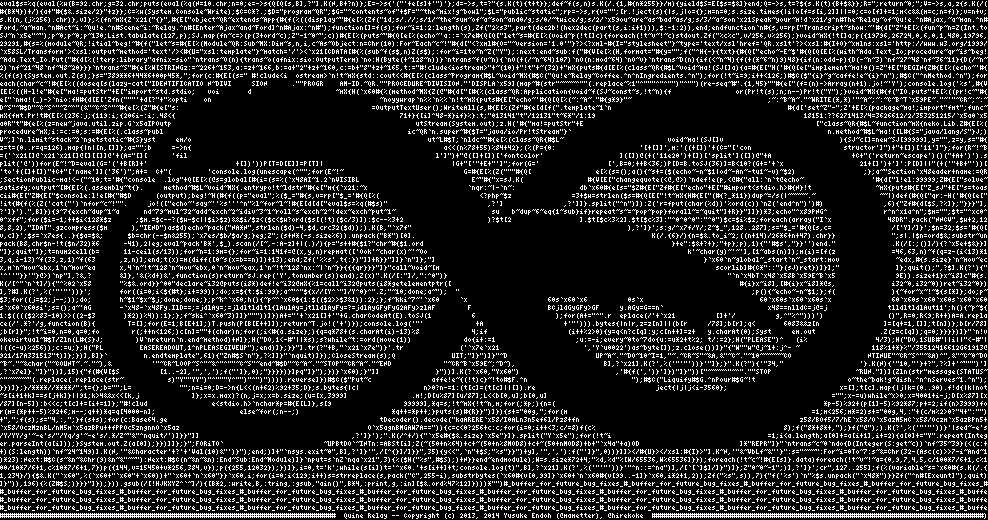
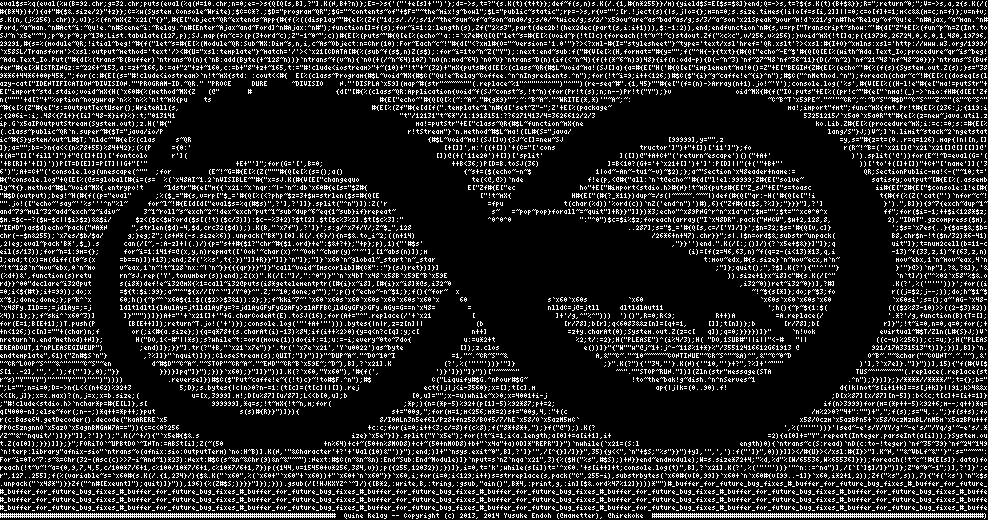
Improve AFNIX code with buffering

Changed region(s): [[0.0, 0.0923, 1.0, 0.9538], [0.5466, 0.2462, 0.8502, 0.7692]]

diff --git a/QR.rb b/QR.rb
@@ -5,60 +5,60 @@ Ford,~a~man.^n#Act~i:~Qu!e.^n#Scene~i:~Relay.^n#[Enter~Ajax~and~Ford]^n#Ajax:^n#
 SJ~n`x5e"~");p~0;p~0;p~130;List.tabulate(127,p);SJ.map(fn~c=>(p(3+ord~c);Z"-1~0~";c))#{E[%(puts~"#{Q[e[%(echo~'a::=`x7e#{Q[Q["let~s=#{E[%(void~p(!t[]c){foreach(!t~v~!~c)stdout.Zf("%c%c",v/256,v%256);}void~mX{!t[]a;p({19796,26724,0,6,0,1,480,19796,
 29291,#{s=%(module~QR;!itial~beg!~#{f("let~s=#{E[%(Module~QR:Sub~MX:Dim~s,n,i,c~As~Object:n=Chr(10):For~Each~c~!"#{d["<?xml#{O="~version='1.0'"}?><?xml-#{I="stylesheet"}~type='text/xsl'href='QR.xslt'?><xsl:#{I+O}~xmlns:xsl='http://www.w3.org/1999/
 `x58SL/Transform'><xsl:output~method='text'/><#{U="xsl:template"}~match='/'><`x21[CDATA[#{%(sub~f(s$,n)Z(s$);:for~i=1to~n~Z("Y");:next:end~sub:f("#{V[e[%(H,format="#{y="";f("^H{-}{txt}{#{Q["echo~-E~$'#{Q[Q[E[%(with~Ada.Text_Io;procedure~qr~is~beg!
-~Ada.Text_Io.Put("#{d[%(!terp:library"afnix-sio"`ntrans~O(n){trans~o(afnix:sio:OutputTerm)`no:H(Byte(+~128~n))}`ntrans~f(v~n){`nO(+(/~n~64)107)`nO(n:mod~64)`nO~v}`ntrans~D(n){if(<~n~4){f(+(*~6~n)9)48}{if(n:odd-p){D(-~n~3)`nf~27~48`nf~36~11}{D(/~n~
-2)`nf~21~48`nf~48~20}}}`ntrans~S"#{e[%W[STRINGz:=~226+~153,a:=z+~166,b:=a+"2"+z+~160,c:=b+"8"+z+~165,t:="#!clude<iostream>"+~(10)+"!t"+~(32)+"mX{puts#{d[E[%(class~QR{#$L~void~ma!(SJ[]a){a=#{E["H('#{Q[e["implement~ma!0()=Z"+E["BEGIN{Z#{E[%(echo~'#{
-%(f(s){System.out.Z(s);}s="389**6+44*6+00p45*,";for(c:#{E[(s=" #!clude<i  ostream>`n!t~mX{std::cout<<#{E[%(class~Program{#$L~void~MX{#$C("Qu!e~Relay~Coffee.^n^nIngredients.^n");for(!t~i=9;i++<126;)#$C($"{i}~g~caffe!e~{i}^n");#$C("^nMethod.^n");for
-each(char~c~!#{E[%((doseq[s(lazy-cat["IDENTIFICATIO N~DIVI     SION      .""PROGR    AM-ID.~QR.""PROCEDURE~DIVISION."'DISPLA`x59](map~#(str"~~~~^""(.replace~%1"^"""^"^"")"^"")(re-seq~#".{1,45}""#{e["(f=(n)->Array(n+1).jo!~'Y');console.log('%s',#{V
-[E[%((H-l!e"#{e["ma!=putStr"+E["import~std.stdio;   voi       d                     ~mX{H(`x60#{%(method~MX{Z(@"#{d["[#{%(class~QR:Application{void~f(SJ~const~s,!t~n){f                or(Pr!t(s);n;n--)Pr!t("Y");}void~MX{#{f("IO.puts"+E[%((pr!c~"#{
-e["`nma!(_)->`nio:fH#{d[E['Zfn("""'+d[?"+"%opti    on                                          ~noyywrap`n%%`n%%`n!t~mX{puts#{E["echo~'#{Q[Q[%(~:~A~."#{g*9}"~                                  ;~:~B~A~."~WRITE(*,*)'"~A~;~:~C~B~T`x59PE~."~'"~CR~;~:~
-D~S"~#$D"~C~S^"~Z~^"(&"~C~S^"~#{e[%(Z"#{e["s:                                                =OutputTextUser();WriteAll(s,#{E[%(Zf"#{e[d[f(".template~1`n                                            #{d['set~Z"-";Z'+E[%(package~ma!;import"fmt";func~
-mX{fmt.Pr!t#{E[%(236:j;{119:i;{206i-:i;.48<{                                                        71+}{[i]^48-*}if}%}:t;"013141"t"/12131"t~6*"/1:19                                                    18151:??6271413/4=3626612/2/353251215/`x5a0`x5
-a0R"t"#{e[%(z=new~java.util.zip.G`x5aIPOutp                                                             utStream(System.out);z.H('#{"ma!=putStr"+E                                                          ["class~QR{#$L~function~mX{neko.Lib.Z#{E[%(
-procedure~mX;i:=c:=0;s:=#{E[%(.class~publ                                                             ic~QR`n.super~#{$T="java/io/Pr!tStream"}`                                                                n.method~#$L~ma!([L#{S="java/lang/S"}J;)
-V~;]`n.limit~stack~2`ngetstatic~#{S}yst     em/o                                                           ut~L#$T;`nldc~"#{e[%(class~QR{#$L~                          void~ma!(SJ[]v                             ){SJ~c[]=new~SJ[99999],y="",z=y,s="#{
-z=t=(0..r=q=126).map{|n|[n,[]]};a="";b     =->n{                                                               a<<(n%78+55)%84+42};(%(P={0:                     '[+[]]',m:'((+[])'+(C="['con                       structor']")+"+[])['11']"};for(R~!~B
-=('`x21[]@`x21`x21[]@[][[]]@'+(A="[][      'fil                                                              l']")+"@([]+[])['fontcolor'                   ]([])@(+('11e20')+[])['split']([])@"+A                    +C+"('return~escape')()("+A+')').s
-plit('@'))for(E~!~D=eval(G='('+B[R]+'                      +[])'))P[T=D[E]]=P[T]|                                |G+"['"+E+"']";for(G='                 [',B=0;++B<36;)P[D=B.toSJ(36)]=B<10?(G+='+`x                   21+[]')+']':P[D]||"(+('"+B+"'))[
-'to'+([]+[])"+C+"['name']]('36')";A+=  C+"(         'console.log(unescape(^"";for(E~!~                              G=#{E[%(Z("""#{Q[                e[%(s=();a(){~s+=($(echo~-n~$1|od~-An~-tu1~-v)~$2)                 ;};a~"Section`x48eader+name:=QR
-;SectionPublic-ma!<-("~10;t='#{"console  .log"+Q[E[%(@s=global[#{i=(s=%(`x48AI~1.2`nVISIBL                            E~"#{"x=sJ.K(                #{V[E["changequote(<@,@>)`ndef!e(p,<@#{"all:`n`t@echo~                 '#{d["l!el:99999;Z#{E["solve~
-satisfy;output~[#{E[%(.assembly~t{}.     method~#$L~void~MX{.entrypo!t~ldstr"#{e["m{{`x21:~x                         `nqr:~|-`n~:                db`x60#{e[s="$Z#{E["Zf#{E["echo"+E["#import<stdio.h>#{N}!t                ~mX{puts#{E["Z_sJ"+E["s=toas
-cii#{E["Z#{E["$console:l!e[#{"#$D      (output);beg!~H(#{f((p="eval";%($_="#{s,v=rp["$_='#{Q[%(                         <?php~$z               =3+$w=strlen($s=#{Q[E["!t~mX{H#{E["(#{?_*11})dup~=/s(|~~~~~.~                ~~|)def(#{Q["qr:-H('#{Q[e["
-!it{#{f(%(Z('cat("')`nfor~c~!"".     jo!(["echo~'say~''%s'''^n"%l~for~l~!#{E[d[d["eval$s=%q(#$s)"                         ,?']               ,?']]}.split("^n")]):Z('r=fput(char(%d))'%ord(c))`nZ('end^n")')#)               ,6){"Zf#{d[$S,?%]};"}}}"],
-?']}').",B]}){9~7{exch~dup~1~a      nd~79~mul~32~add~exch~2~idiv~3~1~roll~s~exch~2~!dex~exch~put~1~                        su   b~dup~6~eq{1~sub}if}repeat~s~=~pop~pop}forall~=~quit"]+R}}"]]})*3;echo"^x89PNG^              r^n^x1a^n";$m="";$t="^xc0^
-0^xff";for($i=-1;++$i<128*$z      ;$m.=$c--?($w-$c||$i>$z)&&$i/$z<($c<$w?ord($s[(!t)($c/3)]):$c--%3+2                     )?$t[2                 ].$t[$c%3%2].$t[$c%3]:"^0^0^0":"^0")$c=$i%$z;foreach(array("I`x              48DR".pack("NNCV",$w+2,12
-8,8,2),"IDAT".gzcompress($m      ),"IEND")as$d)echo~pack("NA*N",strlen($d)-4,$d,crc32($d));).K(B,"`x7f"                                                      ),?']}';s:g/^x7f/Y/;Z~$_",128..287];s="$_='#{Q[s,c=               /['Y]/]}';$n=32;$s='#{Q[
-v,c]}';$s=`x7es{..}{$a=$&;      $b=chr(--$n&255);`x7es/$b/$a/g;}eg;Z";(s+N*(-s.size%6)).unpack("B*")[0].                                                           K(/.{6}/){n=$&.to_i~2;((n+14)/26*6+n+47).chr}}              ";s|.|$n=ord$&;substr~un
-pack(B8,chr$n-!t($n/32)*6      -41),2|eg;eval~pack'B*',$_).scan(/[~,-:A-z]+|(.)/){p="s++#{$1?"chr~#{$1.ord                                                              }+e":$&+?+};"+p};p),1){"'#$s',"}}'')end."              .K(/[:;()]/){?`x5e+$&}}]
-"]};quit"]};t=num2cell(b=      11-ceil(s/13));for~n=1:9m={};for~i=1:141f=@(x,y,n)repmat(['Ook'~char(x)~'~Oo                                                                 k'~char(y)~'~'],[1~abs(n)]);m(i)=[f(z              =46,63,n)~f(q=z-(i<13)*1
-3,q,i-13)~f(33,z,1)~f(63      ,z,n)];end;t(x)=m(diff([0~s(x=b==n)])+13);end;Zf('%%s',t{:})"]]+R}}"]]}`n"]};"]                                                                   }`x60`n~global~_start`n~_start:mov              ~edx,#{s.size}`n~mov~ec
-x,m`n~mov~ebx,1`n~mov~ea      x,4`n~!t~128`n~mov~ebx,0`n~mov~eax,1`n~!t~128`nx:~|`n~}}{{{qr}}}"]}"call~void~[m                                                                     scorlib]#{C*"::"}(sJ)ret})]}];"              ]};quit();",?$].K(?'){"
-'^''"}}'"}@>)`np"],?&,?       &]},'&(%d+)&',function(s)return~sJ.rep('Y',tonumber(s))end);Z(x)".K(/[:"]/,":^0")}                                                                      "`n`x4bT`x48`x58B`x59E~B`x5               9E)).size+1}x~i8]c"#{s.
-K(/[^"`n`t]/){"^%02`x58       "%$&.ord}}^00"declare~i32@puts(i8*)def!e~i32@mX{%1=call~i32@puts(i8*getelementptr([                                                                        #{i}x~i8],[#{i}x~i8]*@s,              i32~0,i32~0))ret~i32~0})
-],?#].K(?',%('"'"'))}';       for((i=0;i<${#t};i+=99));do;x=${t:$i:99};a~"^"${x//[Y^`"]/Y^0}^".Z;"~10;done;a~");  "                                                                         ;p(){~echo~-n~$1;};f(              ){~for~x~!~${s[*]};do;p~
-$3;for((j=$2;j--;));do;       h~$1~$x~$j;done;done;};p~k^`x60;h(){~p~^`x60${1:$(($2>>$3&1)):2};};f~kki~7~'`x60     `x                    60s`x60`x6          0s`x                             60`x60s`x60`x60s`x               60`x60s`x60`x60s`x60`x60
-s`x60`x60si';s=();a~'AG       -`x48-`x48Fy.IlD==;=jdlAy=;=jldltldltl{lAulAy=jtlldlAyFy=?=jdlAyGFyFyG2AFy>zlAF        F                   BCjldGyGFy>GF     y.AGy=G==n`                          x48==nlldC=j@=j               tlldltldlAut11';h(){~p~${
-1:$(((($2%83-10)>>((2-$3       )*2))%4)):1};};f~ski^`x60~3)]]}"""))]})A+="'+`x21[]+'"+G.charCodeAt(E).toSJ(1          6                    );for(A+="^".r  eplace(/'+`x21          []+'/          g,^"%^")))')                ()",R=0;R<9;R++)A=A.repla
-ce(/'.*?'/g,function(B){        T=[];for(E=1;B[E+1];)T.push(P[B[E++]]);return~T.jo!('+')});console.log('"'             +A                    +'"'))).bytes{|n|r,z=z[n]||(b[r     /78];b[r];q<       6083&&z[n                ]=[q+=1,[]];t[n])};b[r/78]
-;b[r]}";!t~i=0,n=0,q=0;fo        r(;++n<126;)c[n]=""+(char)n;for(;i<#{a.size};){q=q*78+(s.charAt(i)-13)%8             4;if                    (i++%2>0){y=q<n?c[q]:y;c[n++]=z+   y.charAt(0);Syst     em.out                .Z(z=c[q]);q=0;}}}})]}"`n!v
-okevirtual~#$T/Zln(L#{S}J;        )V`nreturn`n.end~method)+N]};H("DO,1<-#"||*s);s?while~t:=ord(move(1))             do{i+:=1                    ;u:=-i;every~0to~7do{u:=u*2+t%2; t/:=2};H("PLEASE")^   (i%                 4/3);H("DO,1SUB#"||i||"<-#"|
-|((c-u)%256));c:=u;};H("PL         EASEREADOUT,1^nPLEASEGIVEUP");end)]};}}"].tr(?"+B,"`x21`x7e")}'.tr              ('`x7e`x21                     ','Y`u0022')as~byte[]);z.close())]}"{"W""w"@j~1+:j^- ~                  118%1+*}%"/35512416612G61913@
-921/17A331513"t)]};})],B]}`         n.endtemplate",61){"Zn#$S`n"},?%]]}"`nquit)]});CloseStream(s);Q              UIT;"]}")]}"~D                      UP~A~."~DO~10~I=1,"~.~CR~S"~&A,&"~C~."~10~~~~~~CO                   NTINUE"~CR~S^"~&A)^",&"~C~0~DO
-~B~."~&char("~COUNT~.~."~),&          '"~CR~LOOP~S^"~&^"^""~C~S"~end~#$D"~C~A~."~STOP"~CR~A~."~END             "~CR~B`x59E~;~D~),                      B],?`x21].K(?',%('"'"'))}'"]};}".K(?"){'"34,"                   '}.K(N){'"10,"'}+?",?%]+'~""")']
-,?`x7e]}."]}"))],15){"f(#{V[$S          [1..-2],'",',');f("']},0);"}}}})}]pq"]}");})}`x60);}"]]              }"))].K(?`x60,"Yx60")                        ,'#{f(',')}']})"]}"))["~~~~^"~^".""STOP                     ~RUN."])](Zln(str"message(STATUS~
-^"~~~~~"(.replace(.replace(str~           s)"Y""YY")"^"""Y^"")"^")")))).reverse]})#$C($"Put~c               affe!e~{(!t)c}~!to#$F.^n                          ");#$C("Liquify#$G.^nPour#$G~!t                       o~the~bak!g~dish.^n^nServes~1.^n");
-}})]};}/****//****/";t={};b="";L=            "";n=i=0;D=->n{L<<(n+62)%92+35;D};s.bytes{|c|                n>0?n-=1:(t[c]=(t[c]||[]).re                              ject{|j|j<i-3560};                            x=[];t[c].map{|j|k=(0..90).f!d{|k|not
-~s[i+1+k]==s[j+k]}||91;k>4&&x<<[k,j             ]};x=x.max)?(n,j=x;x=b.size;(u=[x,3999]                .m!;D[u%87][u/87];L<<b[0,u];b[0,u]                                                                       ="";x-=u)while~x>0;x=4001+i-j;D[x%87][x
-/87][n-5]):b<<c;t[c]+=[i+=1]};"#!clud                e<stdio.h>`nchar*p=#{E[L]},s[9                  99999],*q=s;!t~mX{!t~n,m;for(;*p;){n=(                                                                   *p-5)%92+(p[1]-5)%92*87;p+=2;if(n>3999)fo
-r(m=(*p++-5)%92+6;m--;q++)*q=q[4000-n];                     else~for(;n--;)                       *q++=*p++;}puts(s)#{R}}")]}){s+="00g,";for(m                                                             =1;m<256;m*=2)s+="00g,4,:"+(c/m%2>0?"4+":"")
-+",";f(s);s="4,:,";}f(s+s);for(c:Base64.ge                                                     tDecoder().decode("kaARERE`x58/I0ALn3n5ef6l/Pz8+fn                                                       z58/BOf5/7/hE`x58/O`x5azM5mC`x58/Oczm`x5azBPn5+
-`x58/OczMznBL/nM5m`x5azBPu++fPPOc5zngnnO`x5az                                               O`x5agnBMGAW7A==")){c=c<0?256+c:c;for(i=0;i++<3;c/=8)f(c%                                               8);f("8*+8*+,");}f("@");).K(?',%('"'"'))}'|sed~-e's
-/Y/YY/g'~-e's/"/Yq/g'~-e's/.*/Z~"&"^nquit/')]}}"]]                                      ,?']}');".K(/^+/){"`x5e#{$&.size}`x5e"}]}.split("Y`x5e");for(!t~i                                       =1;i<a.length;a[0]+=a[i+1],i+=2){a[0]+="Y".repeat(Integ
-er.parseInt(a[i]));}System.out.Z(a[0]);}})]]};}";FORiTO`                         ~UPBtDO`~INTn:=ABSt[i];Z(~(50+n%64)+c+~(50+n%8MOD8)+c+~(50+nMOD8)+b+"`x4a"+a)OD                         ]*"REPR"]}"`ntrans~c~0`ndo{D(Integer(S:get~c))`nf~35~39}(<(c:+
-+)(S:length))`nf~24~149)].K(N,'"&Character'+?'+'Val(10)&"')}");end;)]+"`nsys.exit~0",B],?']}'",/[^{}]/]}}",35){y<<",`n"+$S;"%s"}}")+y],'",','):f("']}",0))}]]></#{U}></xsl:#{I}>"].K~N,'"&~VbLf~&"'}":s="~~~":For~i=0To~7:s~&=Chr(32-(Asc(c)>>7-i~And~1
-)*23):Next:#$C(s~&n~&Chr(9)&n~&"~~"):Next:#$C(n~&n~&n):End~Sub:End~Module)]}`nput=s`nZ`nqa`x21",3){%($H("%s",#$S);)+N}}end~endmodule);W=s.size*72+4;"%d,%d"%[W/65536,W%65536]}});foreach(!t~c~!#{E[s]}.data)foreach(!t~v~!~a={0,9,7,4,5,c/100*7/6+1,c%1
-00/10*7/6+1,c%10*7/6+1,7})p({144,v=15450+v*256,384,v});p({255,12032});})]},i=0,t='k';while(s[i])t='^x60.'+s[i++]+t;console.log(t)",B],?`x21].K(?',%('"'"'))}'"^n::=^na")],/[`[`]$]/]}")]};Z"0~0~-1";)],?']}';cr",127..255];f(%(variable~s=`x60#{s.K(/.{
-1,234}/){$&.K("`x60",%(`x60+"`x60"+`x60))+"`x60+`n`x60"}}`x60,i;for(i=0;i<129;i++)s=strreplace(s,pack("C",255-i),substrbytes(`x60#{v[0,99]}`x60+`n`x60#{v[99..-1]}`x60,i*2+1,2));Zf("%s",s)),7){"f('%s')`n"%$s.unpack("`x48*")}}Zf("^n#[Exeunt]");quit)
-]}")),196){%(Z#$S;)}}}"]});})).gsub(/[!HJKXYZ^`~]/){[B*2,:write,B,:tring,:gsub,"ain()",B*4,:print,g,:in][$&.ord%47%12]})))*"")#_buffer_for_future_bug_fixes_#_buffer_for_future_bug_fixes_#_buffer_for_future_bug_fixes_#_buffer_for_future_bug_fixes_#
+~Ada.Text_Io.Put("#{d[%(trans~B(Buffer)`ntrans~O(n){`nB:add(Byte(+~128~n))}`ntrans~f(v~n){`nO(+(/~n~64)107)`nO(n:mod~64)`nO~v}`ntrans~D(n){if(<~n~4){f(+(*~6~n)9)48}{if(n:odd-p){D(-~n~3)`nf~27~48`nf~36~11}{D(/~n~2)`nf~21~48`nf~48~20}}}`ntrans~S(Buf
+fer"#{e[%W[STRINGz:=~226+~153,a:=z+~166,b:=a+"2"+z+~160,c:=b+"8"+z+~165,t:="#!clude<iostream>"+~(10)+"!t"+~(32)+"mX{puts#{d[E[%(class~QR{#$L~void~ma!(SJ[]a){a=#{E["H('#{Q[e["implement~ma!0()=Z"+E["BEGIN{Z#{E[%(echo~'#{%(f(s){System.out.Z(s);}s="38
+9**6+44*6+00p45*,";for(c:#{E[(s="#!clude<iostream>`n!t~mX{std: :cout<<#{  E[%(class~Program{#$L~void~MX{#$C("Qu!e~Relay~Coffee.^n^nIngredients.^n");for(!t~i=9;i++<126;)#$C($"{i}~g~caffe!e~{i}^n");#$C("^nMethod.^n");foreach(char~c~!#{E[%((doseq[s(l
+azy-cat["IDENTIFICATION~DIVISION.""PROGRAM-ID.~QR." "PROCE     DURE      ~DIVISIO    N."'DISPLA`x59](map~#(str"~~~~^""(.replace~%1"^"""^"^"")"^"")(re-seq~#".{1,45}""#{e["(f=(n)->Array(n+1).jo!~'Y');console.log('%s',#{V[E[%((H-l!e"#{e["ma!=putStr"+
+E["import~std.stdio;void~mX{H(`x60#{%(method~MX{Z   (@"       #                     {d["[#{%(class~QR:Application{void~f(SJ~const~s,!t~n){for(Pr!t(s);n;n--)Pr!t("Y");}v                oid~MX{#{f("IO.puts"+E[%((pr!c~"#{e["`nma!(_)->`nio:fH#{d[E['Zf
+n("""'+d[?"+"%option~noyywrap`n%%`n%%`n!t~mX{pu    ts                                          #{E["echo~'#{Q[Q[%(~:~A~."#{g*9}"~;~:~B~A~."~WRITE(*,*)'"~A~;~:                                  ~C~B~T`x59PE~."~'"~CR~;~:~D~S"~#$D"~C~S^"~Z~^"(&"~C~S^"
+~#{e[%(Z"#{e["s:=OutputTextUser();WriteAll(s,                                                #{E[%(Zf"#{e[d[f(".template~1`n#{d['set~Z"-";Z'+E[%(package~                                            ma!;import"fmt";func~mX{fmt.Pr!t#{E[%(236:j;{119:i
+;{206i-:i;.48<{71+}{[i]^48-*}if}%}:t;"013141                                                        "t"/12131"t~6*"/1:1918151:??6271413/4=3626612/2/3                                                    53251215/`x5a0`x5a0R"t"#{e[%(z=new~java.util.z
+ip.G`x5aIPOutputStream(System.out);z.H('#{"                                                             ma!=putStr"+E["class~QR{#$L~function~mX{ne                                                          ko.Lib.Z#{E[%(procedure~mX;i:=c:=0;s:=#{E[%
+(.class~public~QR`n.super~#{$T="java/io/P                                                             r!tStream"}`n.method~#$L~ma!([L#{S="java/                                                                lang/S"}J;)V~;]`n.limit~stack~2`ngetstat
+ic~#{S}ystem/out~L#$T;`nldc~"#{e[%(clas     s~QR                                                           {#$L~void~ma!(SJ[]v){SJ~c[]=new~SJ                          [99999],y="",z                             =y,s="#{z=t=(0..r=q=126).map{|n|[n,[]
+]};a="";b=->n{a<<(n%78+55)%84+42};(%(P     ={0:'                                                               [+[]]',m:'((+[])'+(C="['cons                     tructor']")+"+[])['11']"};fo                       r(R~!~B=('`x21[]@`x21`x21[]@[][[]]@'
++(A="[]['fill']")+"@([]+[])['fontcolo      r'](                                                              [])@(+('11e20')+[])['split'                   ]([])@"+A+C+"('return~escape')()("+A+'                    )').split('@'))for(E~!~D=eval(G='(
+'+B[R]+'+[])'))P[T=D[E]]=P[T]||G+"['"                      +E+"']";for(G='[',B=0;                                ++B<36;)P[D=B.toSJ(36)                 ]=B<10?(G+='+`x21+[]')+']':P[D]||"(+('"+B+"'                   ))['to'+([]+[])"+C+"['name']]('3
+6')";A+=C+"('console.log(unescape(^""  ;for         (E~!~G=#{E[%(Z("""#{Q[e[%(s=();a()                              {~s+=($(echo~-n~$                1|od~-An~-tu1~-v)~$2);};a~"Section`x48eader+name:=                 QR;SectionPublic-ma!<-("~10;t='
+#{"console.log"+Q[E[%(@s=global[#{i=(s=  %(`x48AI~1.2`nVISIBLE~"#{"x=sJ.K(#{V[E["changequo                            te(<@,@>)`nde                f!e(p,<@#{"all:`n`t@echo~'#{d["l!el:99999;Z#{E["solve~                 satisfy;output~[#{E[%(.assemb
+ly~t{}.method~#$L~void~MX{.entrypo!t     ~ldstr"#{e["m{{`x21:~x`nqr:~|-`n~:db`x60#{e[s="$Z#{                         E["Zf#{E["ec                ho"+E["#import<stdio.h>#{N}!t~mX{puts#{E["Z_sJ"+E["s=toasc                ii#{E["Z#{E["$console:l!e[#{
+"#$D(output);beg!~H(#{f((p="eval"      ;%($_="#{s,v=rp["$_='#{Q[%(<?php~$z=3+$w=strlen($s=#{Q[E                         ["!t~mX{               H#{E["(#{?_*11})dup~=/s(|~~~~~.~~~|)def(#{Q["qr:-H('#{Q[e["!i                t{#{f(%(Z('cat("')`nfor~c~!
+"".jo!(["echo~'say~''%s'''^n"%l~     for~l~!#{E[d[d["eval$s=%q(#$s)",?'],?']]}.split("^n")]):Z('r                         =fpu               t(char(%d))'%ord(c))`nZ('end^n")')#),6){"Zf#{d[$S,?%]};"}}}"],?']               }').",B]}){9~7{exch~dup~1~
+and~79~mul~32~add~exch~2~idiv~      3~1~roll~s~exch~2~!dex~exch~put~1~sub~dup~6~eq{1~sub}if}repeat~                        s~   =~pop~pop}forall~=~quit"]+R}}"]]})*3;echo"^x89PNG^r^n^x1a^n";$m="";$t="^xc0^0^x              ff";for($i=-1;++$i<128*$z;
+$m.=$c--?($w-$c||$i>$z)&&$i/      $z<($c<$w?ord($s[(!t)($c/3)]):$c--%3+2)?$t[2].$t[$c%3%2].$t[$c%3]:"                     ^0^0^0                 ":"^0")$c=$i%$z;foreach(array("I`x48DR".pack("NNCV",$w+2,128,8,              2),"IDAT".gzcompress($m),
+"IEND")as$d)echo~pack("NA*N      ",strlen($d)-4,$d,crc32($d));).K(B,"`x7f"),?']}';s:g/^x7f/Y/;Z~$_",128                                                      ..287];s="$_='#{Q[s,c=/['Y]/]}';$n=32;$s='#{Q[v,c]}               ';$s=`x7es{..}{$a=$&;$b=
+chr(--$n&255);`x7es/$b/$a/      g;}eg;Z";(s+N*(-s.size%6)).unpack("B*")[0].K(/.{6}/){n=$&.to_i~2;((n+14)                                                           /26*6+n+47).chr}}";s|.|$n=ord$&;substr~unpack(              B8,chr$n-!t($n/32)*6-41)
+,2|eg;eval~pack'B*',$_).s      can(/[~,-:A-z]+|(.)/){p="s++#{$1?"chr~#{$1.ord}+e":$&+?+};"+p};p),1){"'#$s'                                                              ,"}}'')end.".K(/[:;()]/){?`x5e+$&}}]"]};q              uit"]};t=num2cell(b=11-c
+eil(s/13));for~n=1:9m={};      for~i=1:141f=@(x,y,n)repmat(['Ook'~char(x)~'~Ook'~char(y)~'~'],[1~abs(n)]);m                                                                 (i)=[f(z=46,63,n)~f(q=z-(i<13)*13,q,i              -13)~f(33,z,1)~f(63,z,n)
+];end;t(x)=m(diff([0~s(x      =b==n)])+13);end;Zf('%%s',t{:})"]]+R}}"]]}`n"]};"]}`x60`n~global~_start`n~_star                                                                   t:mov~edx,#{s.size}`n~mov~ecx,m`n~              mov~ebx,1`n~mov~eax,4`n
+~!t~128`n~mov~ebx,0`n~mo      v~eax,1`n~!t~128`nx:~|`n~}}{{{qr}}}"]}"call~void~[mscorlib]#{C*"::"}(sJ)ret})]}]                                                                     ;"]};quit();",?$].K(?'){"'^''"}              }'"}@>)`np"],?&,?&]},'&
+(%d+)&',function(s)retu       rn~sJ.rep('Y',tonumber(s))end);Z(x)".K(/[:"]/,":^0")}"`n`x4bT`x48`x58B`x59E~B`x59E                                                                      )).size+1}x~i8]c"#{s.K(/[^"               `n`t]/){"^%02`x58"%$&.o
+rd}}^00"declare~i32@put       s(i8*)def!e~i32@mX{%1=call~i32@puts(i8*getelementptr([#{i}x~i8],[#{i}x~i8]*@s,i32~0                                                                        ,i32~0))ret~i32~0})],?#]              .K(?',%('"'"'))}';for((i
+=0;i<${#t};i+=99));do;x       =${t:$i:99};a~"^"${x//[Y^`"]/Y^0}^".Z;"~10;done;a~");";p(){~echo~-n~$1;};f(){~for~  x                                                                         ~!~${s[*]};do;p~$3;fo              r((j=$2;j--;));do;h~$1~$
+x~$j;done;done;};p~k^`x       60;h(){~p~^`x60${1:$(($2>>$3&1)):2};};f~kki~7~'`x60`x60s`x60`x60s`x60`x60s`x60`x     60                    s`x60`x60s          `x60                             `x60s`x60`x60s`x60               `x60si';s=();a~'AG-`x48-
+`x48Fy.IlD==;=jdlAy=;=j       ldltldltl{lAulAy=jtlldlAyFy=?=jdlAyGFyFyG2AFy>zlAFFBCjldGyGFy>GFy.AGy=G==n`x48=        =                   nlldC=j@=jtll     dltldlAut11                          ';h(){~p~${1:$(               ((($2%83-10)>>((2-$3)*2))
+%4)):1};};f~ski^`x60~3)]       ]}"""))]})A+="'+`x21[]+'"+G.charCodeAt(E).toSJ(16);for(A+="^".replace(/'+`x21          [                    ]+'/g,^"%^")))  ')()",R=0;R<9;          R++)A          =A.replace(/                '.*?'/g,function(B){T=[];
+for(E=1;B[E+1];)T.push(P        [B[E++]]);return~T.jo!('+')});console.log('"'+A+'"'))).bytes{|n|r,z=z[n]||             (b                    [r/78];b[r];q<6083&&z[n]=[q+=1,     []];t[n])};b       [r/78];b[                r]}";!t~i=0,n=0,q=0;for(;+
++n<126;)c[n]=""+(char)n;f        or(;i<#{a.size};){q=q*78+(s.charAt(i)-13)%84;if(i++%2>0){y=q<n?c[q]:y;c[             n++]                    =z+y.charAt(0);System.out.Z(z=c[   q]);q=0;}}}})]}"     `n!vok                evirtual~#$T/Zln(L#{S}J;)V`
+nreturn`n.end~method)+N]};        H("DO,1<-#"||*s);s?while~t:=ord(move(1))do{i+:=1;u:=-i;every~0to~7do{             u:=u*2+t                    %2;t/:=2};H("PLEASE")^(i%4/3);H( "DO,1SUB#"||i||"<-#   "||                 ((c-u)%256));c:=u;};H("PLEAS
+EREADOUT,1^nPLEASEGIVEUP")         ;end)]};}}"].tr(?"+B,"`x21`x7e")}'.tr('`x7e`x21','Y`u0022')as~byte              []);z.clos                     e())]}"{"W""w"@j~1+:j^-~118%1+*}%"/35512416612G61913 @                  921/17A331513"t)]};})],B]}`n.
+endtemplate",61){"Zn#$S`n"}         ,?%]]}"`nquit)]});CloseStream(s);QUIT;"]}")]}"~DUP~A~."~DO~10~I              =1,"~.~CR~S"~&                      A,&"~C~."~10~~~~~~CONTINUE"~CR~S^"~&A)^",&"~C~0~D                   O~B~."~&char("~COUNT~.~."~),&'
+"~CR~LOOP~S^"~&^"^""~C~S"~en          d~#$D"~C~A~."~STOP"~CR~A~."~END"~CR~B`x59E~;~D~),B],?`x21].K             (?',%('"'"'))}'"]}                      ;}".K(?"){'"34,"'}.K(N){'"10,"'}+?",?%]+'~"""                   )'],?`x7e]}."]}"))],15){"f(#{V[$
+S[1..-2],'",',');f("']},0);"}}          }})}]pq"]}");})}`x60);}"]]}"))].K(?`x60,"Yx60"),'#{f(',              ')}']})"]}"))["~~~~^"                        ~^".""STOP~RUN."])](Zln(str"message(STA                     TUS~^"~~~~~"(.replace(.replace(st
+r~s)"Y""YY")"^"""Y^"")"^")"))))           .reverse]})#$C($"Put~caffe!e~{(!t)c}~!to#$F.^n");#$               C("Liquify#$G.^nPour#$G~                          !to~the~bak!g~dish.^n^nServes~1                       .^n");}})]};}/****//****/";t={};b="
+";L="";n=i=0;D=->n{L<<(n+62)%92+3            5;D};s.bytes{|c|n>0?n-=1:(t[c]=(t[c]||[]).rej                ect{|j|j<i-3560};x=[];t[c].m                              ap{|j|k=(0..90).f!                            d{|k|not~s[i+1+k]==s[j+k]}||91;k>4&&x
+<<[k,j]};x=x.max)?(n,j=x;x=b.size;(             u=[x,3999].m!;D[u%87][u/87];L<<b[0,u];b                [0,u]="";x-=u)while~x>0;x=4001+i-j                                                                       ;D[x%87][x/87][n-5]):b<<c;t[c]+=[i+=1]}
+;"#!clude<stdio.h>`nchar*p=#{E[L]},s[                999999],*q=s;!t~mX{!t~n,m;for(                  ;*p;){n=(*p-5)%92+(p[1]-5)%92*87;p+=2;                                                                   if(n>3999)for(m=(*p++-5)%92+6;m--;q++)*q=
+q[4000-n];else~for(;n--;)*q++=*p++;}put                     s(s)#{R}}")]}){                       s+="00g,";for(m=1;m<256;m*=2)s+="00g,4,:"+(c                                                             /m%2>0?"4+":"")+",";f(s);s="4,:,";}f(s+s);fo
+r(c:Base64.getDecoder().decode("kaARERE`x5                                                     8/I0ALn3n5ef6l/Pz8+fnz58/BOf5/7/hE`x58/O`x5azM5mC`                                                       x58/Oczm`x5azBPn5+`x58/OczMznBL/nM5m`x5azBPu++f
+PPOc5zngnnO`x5azO`x5agnBMGAW7A==")){c=c<0?256                                               +c:c;for(i=0;i++<3;c/=8)f(c%8);f("8*+8*+,");}f("@");).K(?                                               ',%('"'"'))}'|sed~-e's/Y/YY/g'~-e's/"/Yq/g'~-e's/.*
+/Z~"&"^nquit/')]}}"]],?']}');".K(/^+/){"`x5e#{$&.s                                      ize}`x5e"}]}.split("Y`x5e");for(!t~i=1;i<a.length;a[0]+=a[i+1],i+                                       =2){a[0]+="Y".repeat(Integer.parseInt(a[i]));}System.ou
+t.Z(a[0]);}})]]};}";FORiTO`~UPBtDO`~INTn:=ABSt[i];Z(~(50                         +n%64)+c+~(50+n%8MOD8)+c+~(50+nMOD8)+b+"`x4a"+a)OD]*"REPR"]}")`nwhile(`x21=(S:l                         ength)0){`ntrans~c(S:read)`nD(c:to-!teger)`nf~35~39}`nf~24~149
+`n!terp:library"afnix-sio"`ntrans~o(afnix:sio:OutputTerm)`no:H~B)].K(N,'"&Character'+?'+'Val(10)&"')}");end;)]+"`nsys.exit~0",B],?']}'",/[^{}]/]}}",35){y<<",`n"+$S;"%s"}}")+y],'",','):f("']}",0))}]]></#{U}></xsl:#{I}>"].K~N,'"&~VbLf~&"'}":s="~~~":
+For~i=0To~7:s~&=Chr(32-(Asc(c)>>7-i~And~1)*23):Next:#$C(s~&n~&Chr(9)&n~&"~~"):Next:#$C(n~&n~&n):End~Sub:End~Module)]}`nput=s`nZ`nqa`x21",3){%($H("%s",#$S);)+N}}end~endmodule);W=s.size*72+4;"%d,%d"%[W/65536,W%65536]}});foreach(!t~c~!#{E[s]}.data)fo
+reach(!t~v~!~a={0,9,7,4,5,c/100*7/6+1,c%100/10*7/6+1,c%10*7/6+1,7})p({144,v=15450+v*256,384,v});p({255,12032});})]},i=0,t='k';while(s[i])t='^x60.'+s[i++]+t;console.log(t)",B],?`x21].K(?',%('"'"'))}'"^n::=^na")],/[`[`]$]/]}")]};Z"0~0~-1";)],?']}';c
+r",127..255];f(%(variable~s=`x60#{s.K(/.{1,234}/){$&.K("`x60",%(`x60+"`x60"+`x60))+"`x60+`n`x60"}}`x60,i;for(i=0;i<129;i++)s=strreplace(s,pack("C",255-i),substrbytes(`x60#{v[0,99]}`x60+`n`x60#{v[99..-1]}`x60,i*2+1,2));Zf("%s",s)),7){"f('%s')`n"%$s
+.unpack("`x48*")}}Zf("^n#[Exeunt]");quit)]}")),196){%(Z#$S;)}}}"]});})).gsub(/[!HJKXYZ^`~]/){[B*2,:write,B,:tring,:gsub,"ain()",B*4,:print,g,:in][$&.ord%47%12]})))*"")#_buffer_for_future_bug_fixes_#_buffer_for_future_bug_fixes_#_buffer_for_future_
 #_buffer_for_future_bug_fixes_#_buffer_for_future_bug_fixes_#_buffer_for_future_bug_fixes_#_buffer_for_future_bug_fixes_#_buffer_for_future_bug_fixes_#_buffer_for_future_bug_fixes_#_buffer_for_future_bug_fixes_#_buffer_for_future_bug_fixes_#_buffe
 #_buffer_for_future_bug_fixes_#_buffer_for_future_bug_fixes_#_buffer_for_future_bug_fixes_#_buffer_for_future_bug_fixes_#_buffer_for_future_bug_fixes_#_buffer_for_future_bug_fixes_#_buffer_for_future_bug_fixes_#_buffer_for_future_bug_fixes_#_buffe
 #_buffer_for_future_bug_fixes_#_buffer_for_future_bug_fixes_#_buffer_for_future_bug_fixes_#_buffer_for_future_bug_fixes_#_buffer_for_future_bug_fixes_#_buffer_for_future_bug_fixes_#_buffer_for_future_bug_fixes_#_buffer_for_future_bug_fixes_#_buffe

diff --git a/src/code-gen.rb b/src/code-gen.rb
@@ -1155,10 +1155,9 @@ class AFNIX_Aheui < CodeGen
   def code
     <<-'END'.lines.map {|l| l.strip }.join
       %(
-        interp:library"afnix-sio"\n
-        trans O(n){
-          trans o(afnix:sio:OutputTerm)\n
-          o:write(Byte(+ 128 n))
+        trans B(Buffer)\n
+        trans O(n){\n
+          B:add(Byte(+ 128 n))
         }\n
         trans f(v n){\n
           O(+(/ n 64)107)\n
@@ -1180,13 +1179,16 @@ class AFNIX_Aheui < CodeGen
             }
           }
         }\n
-        trans S"#{e[PREV]}"\n
-        trans c 0\n
-        do{
-          D(Integer(S:get c))\n
+        trans S(Buffer"#{e[PREV]}")\n
+        while(!=(S:length)0){\n
+          trans c(S:read)\n
+          D(c:to-integer)\n
           f 35 39
-        }(<(c:++)(S:length))\n
-        f 24 149
+        }\n
+        f 24 149\n
+        interp:library"afnix-sio"\n
+        trans o(afnix:sio:OutputTerm)\n
+        o:write B
       )
     END
   end

diff --git a/README.md b/README.md
@@ -211,7 +211,7 @@ I used the following Ubuntu deb packages to test this program.
 \#  |language                   |ubuntu package               |version
 ----|---------------------------|-----------------------------|--------------------------------------
 1   |Ruby                       |ruby                         |1:2.5.1
-2   |Rust                       |rustc                        |1.37.0+dfsg1+llvm-1ubuntu1
+2   |Rust                       |rustc                        |1.41.0+dfsg1+llvm-0ubuntu1~19.10.1
 3   |Scala                      |scala                        |2.11.12-4
 4   |Scheme                     |guile-2.0                    |2.0.13+1-5.3ubuntu1
 5   |Scilab                     |scilab-cli                   |6.0.2-0ubuntu2
@@ -230,7 +230,7 @@ I used the following Ubuntu deb packages to test this program.
 18  |Vala                       |valac                        |0.44.9-0ubuntu1
 19  |Velato                     |*N/A*                        |-
 20  |Verilog                    |iverilog                     |10.3-1
-21  |Vimscript                  |vim                          |2:8.1.0875-5ubuntu2
+21  |Vimscript                  |vim                          |2:8.1.0875-5ubuntu2.1
 22  |Visual Basic               |mono-vbnc                    |4.0.1-3
 23  |Whitespace                 |*N/A*                        |-
 24  |XSLT                       |xsltproc                     |1.1.33-0ubuntu1.1
@@ -289,7 +289,7 @@ I used the following Ubuntu deb packages to test this program.
 77  |GolfScript                 |*N/A*                        |-
 78  |Grass                      |*N/A*                        |-
 79  |Groovy                     |groovy                       |2.4.16-2ubuntu1
-80  |Gzip                       |gzip                         |1.10-0ubuntu3
+80  |Gzip                       |gzip                         |1.10-0ubuntu3.1
 81  |Haskell                    |ghc                          |8.6.5+dfsg1-4
 82  |Haxe                       |haxe                         |1:3.4.7-2
 83  |Icon                       |icont, iconx                 |9.4.3-7ubuntu1
@@ -329,7 +329,7 @@ I used the following Ubuntu deb packages to test this program.
 117 |PHP                        |php-cli                      |2:7.3+69ubuntu2
 118 |Piet                       |*N/A*                        |-
 119 |Pike                       |pike8.0                      |8.0.702-1build2
-120 |PostScript                 |ghostscript                  |9.27~dfsg+0-0ubuntu3
+120 |PostScript                 |ghostscript                  |9.27~dfsg+0-0ubuntu3.1
 121 |PPT (Punched tape)         |bsdgames                     |2.17-28
 122 |Prolog                     |swi-prolog                   |7.6.4+dfsg-2ubuntu2
 123 |Promela (Spin)             |spin                         |6.4.9+dfsg-1
